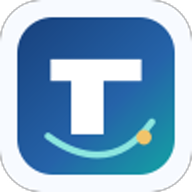
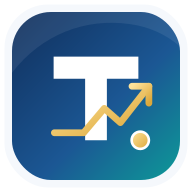
Add files via upload

diff --git a/excel-import.js b/excel-import.js
@@ -1,0 +1,295 @@
+/* Teyssir ERP — Excel historical data importer
+   Adds a guided import workflow without replacing existing ERP screens or workflows. */
+(function () {
+  "use strict";
+  const CATS = {
+    products: { label: "المنتجات والمخزون", collection: "products", fields: [
+      ["name","اسم المنتج","name,product,product name,المنتج,اسم المنتج,article,désignation"],
+      ["buyPrice","سعر الشراء","buyprice,buy price,cost,سعر الشراء,ثمن الشراء,prix achat"],
+      ["sellPrice","سعر البيع","sellprice,sell price,price,سعر البيع,ثمن البيع,prix vente"],
+      ["stock","الكمية الحالية","stock,quantity,qty,الكمية,الكمية الحالية,quantité,qte"],
+      ["expiryDate","تاريخ انتهاء الصلاحية (اختياري)","expirydate,expiry date,expiration,expiry,تاريخ انتهاء الصلاحية,تاريخ الانتهاء,date expiration"],
+      ["unit","وحدة القياس (اختياري)","unit,unité,الوحدة,وحدة القياس"],
+      ["category","التصنيف (اختياري)","category,catégorie,التصنيف,الصنف"]
+    ]},
+    customers: { label: "الزبناء", collection: "customers", fields: [
+      ["name","اسم الزبون","name,customer,client,الاسم,اسم الزبون,اسم العميل"],
+      ["phone","الهاتف","phone,tel,telephone,téléphone,الهاتف,رقم الهاتف"],
+      ["balance","الرصيد السابق (اختياري)","balance,solde,الرصيد,الرصيد السابق,المستحق"]
+    ]},
+    suppliers: { label: "الموردون", collection: "suppliers", fields: [
+      ["name","اسم المورد","name,supplier,fournisseur,اسم المورد,المورد"],
+      ["phone","الهاتف","phone,tel,telephone,téléphone,الهاتف,رقم الهاتف"],
+      ["balance","الرصيد السابق (اختياري)","balance,solde,الرصيد,الرصيد السابق,المستحق"]
+    ]},
+    banks: { label: "البنوك والحسابات", collection: "banks", fields: [
+      ["name","اسم البنك أو الحساب","name,bank,bank name,اسم البنك,اسم الحساب,البنك"],
+      ["accountNumber","رقم الحساب (اختياري)","accountnumber,account number,numero compte,رقم الحساب"],
+      ["balance","الرصيد الافتتاحي","balance,solde,الرصيد,الرصيد الافتتاحي"]
+    ]},
+    employees: { label: "الموظفون والرواتب الأساسية", collection: "salaries", fields: [
+      ["name","اسم الموظف","name,employee,employé,اسم الموظف,الاسم"],
+      ["phone","الهاتف (اختياري)","phone,tel,telephone,الهاتف,رقم الهاتف"],
+      ["baseSalary","الراتب الأساسي","basesalary,base salary,salary,salaire,الراتب الأساسي,الراتب"],
+      ["defaultMethod","طريقة الدفع: cash أو bank (اختياري)","defaultmethod,method,طريقة الدفع"]
+    ]},
+    expenses: { label: "المصروفات التاريخية", collection: "expenses", fields: [
+      ["date","تاريخ المصروف","date,createdat,date dépense,التاريخ,تاريخ المصروف"],
+      ["name","نوع أو اسم المصروف","name,category,catégorie,type,اسم المصروف,التصنيف,نوع المصروف"],
+      ["note","الوصف (اختياري)","note,description,الوصف,ملاحظات"],
+      ["amount","المبلغ","amount,amount mru,montant,valeur,المبلغ,القيمة"],
+      ["method","طريقة الدفع: cash أو bank (اختياري)","method,mode,طريقة الدفع"],
+      ["bankName","اسم البنك (اختياري)","bankname,bank,اسم البنك"]
+    ]},
+    revenues: { label: "الإيرادات التاريخية", collection: "transactions", fields: [
+      ["date","تاريخ الإيراد","date,createdat,date revenu,التاريخ,تاريخ الإيراد"],
+      ["name","مصدر أو اسم الإيراد","name,source,category,اسم الإيراد,المصدر,التصنيف"],
+      ["note","الوصف (اختياري)","note,description,الوصف,ملاحظات"],
+      ["amount","المبلغ","amount,montant,valeur,المبلغ,القيمة"],
+      ["method","طريقة القبض: cash أو bank (اختياري)","method,mode,طريقة القبض"],
+      ["bankName","اسم البنك (اختياري)","bankname,bank,اسم البنك"]
+    ]},
+    salaryPayments: { label: "سجل الرواتب المدفوعة سابقًا", collection: "transactions", fields: [
+      ["date","تاريخ دفع الراتب","date,createdat,paydate,date paiement,التاريخ,تاريخ الدفع"],
+      ["name","اسم الموظف","name,employee,employé,اسم الموظف,الاسم"],
+      ["amount","المبلغ المدفوع","amount,montant,paid,المبلغ,المبلغ المدفوع"],
+      ["note","ملاحظات (اختياري)","note,description,الوصف,ملاحظات"]
+    ]}
+  };
+  const norm = v => String(v == null ? "" : v).trim().toLowerCase().normalize("NFD").replace(/[\u0300-\u036f]/g,"").replace(/[\s_\-./]+/g,"");
+  const num = v => {
+    if (typeof v === "number") return Number.isFinite(v) ? v : NaN;
+    const s = String(v == null ? "" : v).replace(/[\s٬,]/g,"").replace(/[٫]/g,".");
+    if (!s) return 0;
+    return Number(s);
+  };
+  const dateValue = v => {
+    if (v == null || v === "") return "";
+    if (v instanceof Date && !isNaN(v)) return v.toISOString().slice(0,10);
+    if (typeof v === "number" && window.XLSX && XLSX.SSF) {
+      const d = XLSX.SSF.parse_date_code(v);
+      if (d) return `${d.y}-${String(d.m).padStart(2,"0")}-${String(d.d).padStart(2,"0")}`;
+    }
+    const s = String(v).trim();
+    if (/^\d{4}-\d{1,2}-\d{1,2}/.test(s)) return s.slice(0,10);
+    const m = s.match(/^(\d{1,2})[\/.-](\d{1,2})[\/.-](\d{2,4})$/);
+    if (m) {
+      let a=+m[1], b=+m[2], y=+m[3]; if(y<100)y+=2000;
+      // Common spreadsheet date convention: DD/MM/YYYY
+      return `${y}-${String(b).padStart(2,"0")}-${String(a).padStart(2,"0")}`;
+    }
+    const d = new Date(s);
+    return isNaN(d) ? "" : d.toISOString().slice(0,10);
+  };
+  function hash(str) { let h=2166136261; for(let i=0;i<str.length;i++){h^=str.charCodeAt(i);h=Math.imul(h,16777619);} return (h>>>0).toString(16).padStart(8,"0"); }
+  function safeId(cat, row) {
+    const identity = cat + "|" + (row.name||"") + "|" + (row.phone||"") + "|" + (row.accountNumber||"") + "|" + (row.date||"") + "|" + (row.amount||"") + "|" + (row.expiryDate||"");
+    return "excel_" + hash(identity.toLowerCase());
+  }
+  function esc(s) { return String(s == null ? "" : s).replace(/[&<>"']/g,c=>({"&":"&amp;","<":"&lt;",">":"&gt;",'"':"&quot;","'":"&#39;"}[c])); }
+
+  let rows = [], headers = [], selectedCat = "products", lastFile = "";
+  function injectStyle() {
+    if (document.getElementById("tei-import-style")) return;
+    const st=document.createElement("style"); st.id="tei-import-style";
+    st.textContent = `
+      #teiImportLauncher{position:fixed;left:18px;bottom:18px;z-index:9990;border:0;border-radius:14px;padding:12px 16px;background:linear-gradient(135deg,#173f7a,#127f91);color:#fff;font:700 14px Tajawal,sans-serif;box-shadow:0 8px 24px #173f7a40;cursor:pointer}
+      #teiImportLauncher i{margin-inline-end:7px}
+      #teiImportOverlay{position:fixed;inset:0;z-index:9999;background:#0b1738a8;display:none;align-items:center;justify-content:center;padding:14px;font-family:Tajawal,sans-serif}
+      #teiImportOverlay .tei-card{background:#fff;color:#1f2937;width:min(900px,100%);max-height:92vh;overflow:auto;border-radius:20px;box-shadow:0 25px 80px #07152e55}
+      #teiImportOverlay .tei-head{background:linear-gradient(120deg,#173f7a,#147f89);color:#fff;padding:18px 22px;display:flex;justify-content:space-between;align-items:center;gap:12px}
+      #teiImportOverlay .tei-head h2{margin:0;font-size:20px}
+      #teiImportOverlay .tei-body{padding:20px}
+      #teiImportOverlay .tei-grid{display:grid;grid-template-columns:repeat(2,minmax(0,1fr));gap:12px}
+      #teiImportOverlay .tei-field label{display:block;font-size:13px;font-weight:700;margin-bottom:6px}
+      #teiImportOverlay .tei-field select,#teiImportOverlay .tei-field input{width:100%;padding:11px;border:1px solid #d6deea;border-radius:10px;background:#fff;font:inherit}
+      #teiImportOverlay .tei-btn{border:0;border-radius:10px;padding:11px 16px;font:700 14px Tajawal,sans-serif;cursor:pointer}
+      #teiImportOverlay .tei-primary{background:#173f7a;color:white}
+      #teiImportOverlay .tei-secondary{background:#edf2f8;color:#173f7a}
+      #teiImportOverlay .tei-danger{background:#fff0f0;color:#a32323}
+      #teiImportOverlay .tei-actions{display:flex;gap:8px;flex-wrap:wrap;margin-top:16px}
+      #teiImportOverlay .tei-note{background:#f3f7fc;border:1px solid #dbe6f3;border-radius:12px;padding:12px;font-size:13px;line-height:1.7;margin:12px 0}
+      #teiImportOverlay .tei-tablewrap{overflow:auto;max-height:280px;border:1px solid #e5eaf1;border-radius:10px;margin-top:12px}
+      #teiImportOverlay table{border-collapse:collapse;width:100%;font-size:12px;white-space:nowrap}
+      #teiImportOverlay th,#teiImportOverlay td{padding:8px;border-bottom:1px solid #e8edf4;text-align:right}
+      #teiImportOverlay th{background:#f1f5f9;position:sticky;top:0}
+      #teiImportOverlay .tei-status{margin-top:12px;font-weight:700;white-space:pre-wrap;line-height:1.7}
+      #teiImportOverlay .tei-close{border:0;background:#ffffff20;color:white;border-radius:10px;padding:8px 12px;font-size:18px;cursor:pointer}
+      @media(max-width:600px){#teiImportOverlay .tei-grid{grid-template-columns:1fr}#teiImportLauncher{left:10px;bottom:10px;padding:10px 12px}}
+    `;
+    document.head.appendChild(st);
+  }
+  function addLauncher() {
+    if (document.getElementById("teiImportLauncher") || !window.app || !app.state || !app.state.cid) return;
+    const b=document.createElement("button"); b.id="teiImportLauncher"; b.innerHTML='<i class="fa-solid fa-file-excel"></i> استيراد بيانات Excel'; b.onclick=openModal;
+    document.body.appendChild(b);
+  }
+  function ensureModal() {
+    if(document.getElementById("teiImportOverlay")) return;
+    const el=document.createElement("div"); el.id="teiImportOverlay";
+    el.innerHTML=`<div class="tei-card" role="dialog" aria-modal="true" aria-label="استيراد Excel">
+      <div class="tei-head"><div><h2><i class="fa-solid fa-file-excel"></i> استيراد البيانات السابقة</h2><div style="font-size:12px;opacity:.9;margin-top:4px">Teyssir ERP · معاينة وتحقق قبل الحفظ</div></div><button class="tei-close" id="teiImportClose" aria-label="إغلاق">×</button></div>
+      <div class="tei-body">
+        <div class="tei-note">اختر نوع البيانات ثم ارفع ملف Excel بصيغة XLSX أو XLS أو CSV. راجع المعاينة والأخطاء قبل التنفيذ. لا تُنشأ عمليات قبض أو دفع نقدية تلقائيًا عند استيراد السجلات التاريخية، لتجنب تغيير الأرصدة دون قصد.</div>
+        <div class="tei-grid">
+          <div class="tei-field"><label for="teiCat">نوع البيانات</label><select id="teiCat"></select></div>
+          <div class="tei-field"><label for="teiFile">ملف Excel</label><input id="teiFile" type="file" accept=".xlsx,.xls,.csv"></div>
+        </div>
+        <div id="teiMapping"></div><div id="teiPreview"></div><div id="teiStatus" class="tei-status" aria-live="polite"></div>
+        <div class="tei-actions"><button class="tei-btn tei-secondary" id="teiTemplate">تنزيل قالب CSV</button><button class="tei-btn tei-secondary" id="teiValidate">فحص ومعاينة</button><button class="tei-btn tei-primary" id="teiImport" disabled>استيراد السجلات الصحيحة</button><button class="tei-btn tei-danger" id="teiReset">إعادة ضبط</button></div>
+      </div></div>`;
+    document.body.appendChild(el);
+    el.addEventListener("click",e=>{if(e.target===el) closeModal();});
+    document.getElementById("teiImportClose").onclick=closeModal;
+    document.getElementById("teiCat").innerHTML=Object.entries(CATS).map(([k,v])=>`<option value="${k}">${esc(v.label)}</option>`).join("");
+    document.getElementById("teiCat").onchange=()=>{selectedCat=document.getElementById("teiCat").value; renderMapping(); renderPreview();};
+    document.getElementById("teiFile").onchange=readFile;
+    document.getElementById("teiTemplate").onclick=downloadTemplate;
+    document.getElementById("teiValidate").onclick=validateAndPreview;
+    document.getElementById("teiImport").onclick=runImport;
+    document.getElementById("teiReset").onclick=()=>{rows=[];headers=[];lastFile="";document.getElementById("teiFile").value="";document.getElementById("teiStatus").textContent="";document.getElementById("teiImport").disabled=true;renderMapping();renderPreview();};
+  }
+  function openModal() {
+    if(!window.app || !app.state || !app.state.cid){alert("يرجى تسجيل الدخول إلى الشركة أولًا.");return;}
+    injectStyle();ensureModal();selectedCat=document.getElementById("teiCat").value||"products";
+    document.getElementById("teiImportOverlay").style.display="flex"; renderMapping(); renderPreview();
+  }
+  function closeModal(){const e=document.getElementById("teiImportOverlay");if(e)e.style.display="none";}
+  function downloadTemplate(){
+    const cat=document.getElementById("teiCat").value, c=CATS[cat];
+    const csv=c.fields.map(f=>`"${f[1].replace(/"/g,'""')}"`).join(",")+"\r\n";
+    const blob=new Blob(["\ufeff"+csv],{type:"text/csv;charset=utf-8;"});
+    const a=document.createElement("a");a.href=URL.createObjectURL(blob);a.download=`Teyssir-${cat}-template.csv`;a.click();setTimeout(()=>URL.revokeObjectURL(a.href),1000);
+  }
+  function readFile(e){
+    const file=e.target.files&&e.target.files[0]; if(!file)return;
+    if(!window.XLSX){setStatus("تعذر تحميل قارئ Excel. اتصل بالإنترنت ثم أعد المحاولة.");return;}
+    lastFile=file.name;
+    const reader=new FileReader();
+    reader.onload=ev=>{
+      try{
+        const wb=XLSX.read(ev.target.result,{type:"array",cellDates:true});
+        const ws=wb.Sheets[wb.SheetNames[0]];
+        const json=XLSX.utils.sheet_to_json(ws,{header:1,defval:"",raw:true});
+        if(!json.length)throw new Error("الملف فارغ.");
+        headers=json[0].map((h,i)=>String(h||`عمود ${i+1}`).trim());
+        rows=json.slice(1).filter(r=>r.some(v=>String(v??"").trim()!=="")).map((r,i)=>({_sourceRow:i+2, _raw:r}));
+        renderMapping();validateAndPreview();
+      }catch(err){rows=[];headers=[];setStatus("تعذر قراءة الملف: "+err.message);renderPreview();}
+    };
+    reader.readAsArrayBuffer(file);
+  }
+  function renderMapping(){
+    const c=CATS[document.getElementById("teiCat")?.value||selectedCat];
+    const box=document.getElementById("teiMapping");if(!box)return;
+    if(!headers.length){box.innerHTML="";return;}
+    box.innerHTML=`<div class="tei-note"><b>مطابقة الأعمدة:</b> حاول النظام مطابقة أسماء الأعمدة تلقائيًا. عدّل المطابقة إذا كانت عناوين ملفك مختلفة.</div><div class="tei-grid">${
+      c.fields.map(f=>{
+        const aliases=f[2].split(",").map(norm);let idx=headers.findIndex(h=>aliases.includes(norm(h)));
+        return `<div class="tei-field"><label>${esc(f[1])}</label><select data-map="${esc(f[0])}"><option value="-1">— غير محدد —</option>${headers.map((h,i)=>`<option value="${i}" ${i===idx?"selected":""}>${esc(h||`عمود ${i+1}`)}</option>`).join("")}</select></div>`;
+      }).join("")
+    }</div>`;
+    box.querySelectorAll("select[data-map]").forEach(x=>x.onchange=()=>validateAndPreview());
+  }
+  function mappedRows(){
+    const c=CATS[document.getElementById("teiCat")?.value||selectedCat];
+    const mapping={};
+    document.querySelectorAll("#teiMapping select[data-map]").forEach(x=>{if(+x.value>=0)mapping[x.dataset.map]=+x.value;});
+    return rows.map(r=>{
+      const o={_sourceRow:r._sourceRow};
+      Object.entries(mapping).forEach(([k,i])=>o[k]=r._raw[i]);
+      return o;
+    });
+  }
+  function validateRow(cat,r){
+    const errs=[];
+    if(cat==="products"){
+      if(!String(r.name||"").trim())errs.push("اسم المنتج مطلوب");
+      for(const k of ["buyPrice","sellPrice","stock"]) if(r[k]!==undefined && r[k]!=="" && (!Number.isFinite(num(r[k]))||num(r[k])<0))errs.push("قيمة غير صحيحة: "+k);
+      if(r.stock===undefined||r.stock==="")errs.push("الكمية الحالية مطلوبة");
+      if(r.expiryDate && !dateValue(r.expiryDate))errs.push("تاريخ الصلاحية غير صحيح");
+    } else if(["customers","suppliers"].includes(cat)){if(!String(r.name||"").trim())errs.push("الاسم مطلوب");}
+    else if(cat==="banks"){if(!String(r.name||"").trim())errs.push("اسم الحساب مطلوب");if(r.balance!==undefined&&r.balance!==""&&(!Number.isFinite(num(r.balance))||num(r.balance)<0))errs.push("الرصيد غير صحيح");}
+    else if(cat==="employees"){if(!String(r.name||"").trim())errs.push("اسم الموظف مطلوب");if(!Number.isFinite(num(r.baseSalary))||num(r.baseSalary)<=0)errs.push("الراتب الأساسي يجب أن يكون أكبر من صفر");}
+    else if(["expenses","revenues","salaryPayments"].includes(cat)){if(!String(r.name||"").trim())errs.push("الاسم مطلوب");if(!Number.isFinite(num(r.amount))||num(r.amount)<=0)errs.push("المبلغ يجب أن يكون أكبر من صفر");if(!dateValue(r.date))errs.push("التاريخ مطلوب أو غير صحيح");}
+    return errs;
+  }
+  let validRows=[];
+  function validateAndPreview(){
+    if(!headers.length){renderPreview();return;}
+    const cat=document.getElementById("teiCat").value;
+    const mapped=mappedRows();
+    validRows=mapped.map(r=>({...r,_errors:validateRow(cat,r)}));
+    renderPreview();
+    const ok=validRows.filter(r=>!r._errors.length).length, bad=validRows.length-ok;
+    setStatus(`الملف: ${lastFile||"—"}\nعدد الصفوف: ${validRows.length} | صالحة: ${ok} | تحتاج تصحيحًا: ${bad}`);
+    document.getElementById("teiImport").disabled=ok===0;
+  }
+  function renderPreview(){
+    const box=document.getElementById("teiPreview");if(!box)return;
+    if(!rows.length){box.innerHTML="";return;}
+    const list=validRows.length?validRows:mappedRows().map(r=>({...r,_errors:validateRow(document.getElementById("teiCat").value,r)}));
+    const cols=CATS[document.getElementById("teiCat").value].fields;
+    box.innerHTML=`<div style="font-weight:800;margin-top:14px">معاينة أول ${Math.min(list.length,12)} صفًا من ${list.length}</div><div class="tei-tablewrap"><table><thead><tr><th>صف Excel</th>${cols.map(c=>`<th>${esc(c[1])}</th>`).join("")}<th>التحقق</th></tr></thead><tbody>${list.slice(0,12).map(r=>`<tr><td>${r._sourceRow}</td>${cols.map(c=>`<td>${esc(c[0]==="expiryDate"&&r[c[0]]?dateValue(r[c[0]]):(r[c[0]]??"—"))}</td>`).join("")}<td style="color:${r._errors.length?"#b91c1c":"#047857"}">${esc(r._errors.join("؛ ")||"صالح")}</td></tr>`).join("")}</tbody></table></div>`;
+  }
+  function setStatus(t){const el=document.getElementById("teiStatus");if(el)el.textContent=t;}
+  function cleanRow(cat,r){
+    const n={companyId:app.state.cid,createdAt: r.date?new Date(dateValue(r.date)+"T12:00:00").toISOString():new Date().toISOString(), importedFromExcel:true};
+    if(cat==="products") Object.assign(n,{name:String(r.name).trim(),buyPrice:num(r.buyPrice),sellPrice:num(r.sellPrice),stock:num(r.stock),expiryDate:r.expiryDate?dateValue(r.expiryDate):null,sourceType:"opening",...(r.unit?{unit:String(r.unit).trim()}:{}),...(r.category?{category:String(r.category).trim()}:{})});
+    if(cat==="customers"||cat==="suppliers") Object.assign(n,{name:String(r.name).trim(),phone:String(r.phone||"").trim(),balance:r.balance!==undefined&&r.balance!==""?num(r.balance):0});
+    if(cat==="banks") Object.assign(n,{name:String(r.name).trim(),balance:r.balance!==undefined&&r.balance!==""?num(r.balance):0,accountNumber:String(r.accountNumber||"").trim()});
+    if(cat==="employees") Object.assign(n,{name:String(r.name).trim(),phone:String(r.phone||"").trim(),baseSalary:num(r.baseSalary),defaultMethod:["bank","cash"].includes(String(r.defaultMethod||"").toLowerCase())?String(r.defaultMethod).toLowerCase():"cash",payDate:null,lastPaidFor:null,lastPaidAt:null,totalPaid:0});
+    if(cat==="expenses") Object.assign(n,{val1:String(r.name).trim(),val2:String(r.note||"").trim(),val3:num(r.amount),method:["bank","cash"].includes(String(r.method||"").toLowerCase())?String(r.method).toLowerCase():"cash",bankId:null,importedHistorical:true});
+    if(cat==="revenues") Object.assign(n,{type:"revenue",amount:num(r.amount),cashAmount:0,bankAmount:0,method:["bank","cash"].includes(String(r.method||"").toLowerCase())?String(r.method).toLowerCase():"cash",note:`إيراد تاريخي: ${String(r.name).trim()}${r.note?" - "+String(r.note).trim():""}`,importedHistorical:true});
+    if(cat==="salaryPayments") Object.assign(n,{type:"salary_payment",amount:num(r.amount),cashAmount:0,bankAmount:0,method:"cash",note:`راتب تاريخي: ${String(r.name).trim()}${r.note?" - "+String(r.note).trim():""}`,importedHistorical:true});
+    return n;
+  }
+  async function runImport(){
+    const cat=document.getElementById("teiCat").value;
+    const good=validRows.filter(r=>!r._errors.length);
+    if(!good.length)return alert("لا توجد صفوف صالحة للاستيراد.");
+    if(!confirm(`سيتم استيراد ${good.length} سجلًا إلى قسم «${CATS[cat].label}». ستستخدم السجلات المستوردة سابقًا المعرّف نفسه لتقليل التكرار. هل تريد المتابعة؟`))return;
+    const btn=document.getElementById("teiImport");btn.disabled=true;
+    let created=0, skipped=0, failed=0; const errors=[];
+    try{
+      for(let start=0;start<good.length;start+=150){
+        const chunk=good.slice(start,start+150);const batch=db.batch(); let hasWrites=false;
+        for(const r of chunk){
+          const data=cleanRow(cat,r);
+          const id=safeId(cat,{...r,name:r.name||"",date:dateValue(r.date||r.createdAt),amount:r.amount||"",expiryDate:dateValue(r.expiryDate||"")});
+          const ref=db.collection(CATS[cat].collection).doc(id);
+          try{
+            // Deterministic IDs make re-import idempotent: the same source row updates its own imported record instead of creating duplicates.
+            batch.set(ref,data);created++;hasWrites=true;
+            if(cat==="products"){
+              const tr=db.collection("transactions").doc("excel_stock_"+id);
+              batch.set(tr,{companyId:app.state.cid,type:"opening_stock",refId:id,amount:0,note:`رصيد مخزون افتتاحي مستورد: ${data.name} (${data.stock})`,createdAt:data.createdAt,importedHistorical:true}); hasWrites=true;
+            }
+            if(cat==="banks" && num(r.balance)>0){
+              const tr=db.collection("transactions").doc("excel_open_"+id);
+              batch.set(tr,{companyId:app.state.cid,type:"opening_balance",bankId:id,amount:num(r.balance),bankAmount:num(r.balance),cashAmount:0,method:"bank",note:"رصيد افتتاحي مستورد من Excel",createdAt:data.createdAt,importedHistorical:true}); hasWrites=true;
+            }
+            if(cat==="expenses"){
+              const tr=db.collection("transactions").doc("excel_exp_"+id);
+              batch.set(tr,{companyId:app.state.cid,type:"expense",refId:id,amount:num(r.amount),cashAmount:0,bankAmount:0,method:data.method,note:data.val1,createdAt:data.createdAt,importedHistorical:true}); hasWrites=true;
+            }
+          }catch(e){failed++;errors.push(`صف ${r._sourceRow}: ${e.message}`);}
+        }
+        if(hasWrites) await batch.commit();
+      }
+      try{app.clearCache(CATS[cat].collection);app.clearCache("transactions");}catch(_){}
+      setStatus(`اكتمل الاستيراد.\nتمت معالجة/حفظ: ${created}\nتمت معالجة السجلات المتطابقة دون إنشاء معرفات جديدة\nأخطاء: ${failed}${errors.length?"\n"+errors.slice(0,8).join("\n"):""}\n\nراجع القسم المعني للتأكد من النتائج.`);
+      alert(`اكتمل الاستيراد.\nإضافة: ${created}\nتخطي: ${skipped}\nأخطاء: ${failed}`);
+      if(window.app && app.state && app.state.currentView) app.nav(app.state.currentView);
+    }catch(e){setStatus("تعذر إكمال الاستيراد: "+e.message);alert("تعذر إكمال الاستيراد: "+e.message);}
+    finally{btn.disabled=false;}
+  }
+  function start(){
+    injectStyle();
+    // SheetJS is used only to read user-selected workbooks; all writes go through the existing Firebase client.
+    if(!window.XLSX){const s=document.createElement("script");s.src="https://cdn.jsdelivr.net/npm/xlsx@0.18.5/dist/xlsx.full.min.js";s.async=true;document.head.appendChild(s);}
+    setInterval(addLauncher,1000);
+    window.addEventListener("online",()=>{const st=document.getElementById("teiStatus");if(st&&st.textContent.includes("غير متصل"))st.textContent+="\nعاد الاتصال بالإنترنت.";});
+  }
+  if(document.readyState==="loading")document.addEventListener("DOMContentLoaded",start);else start();
+})();

diff --git a/service-worker.js b/service-worker.js
@@ -14,7 +14,7 @@
      With relative URLs the precache works on any hosting path (root,
      subfolder, GitHub Pages, etc.) and the app loads fully offline.
 */
-const VERSION       = 'teyssir-v13-2026-09-22-fix4';
+const VERSION       = 'teyssir-v14-excel-import-brand';
 const SHELL_CACHE   = `shell-${VERSION}`;
 const RUNTIME_CACHE = `runtime-${VERSION}`;
 
@@ -29,6 +29,9 @@ const SHELL_FILES = [
   'style.css',
   'modern.css',
   'erp-enhancements.js',
+  'excel-import.js',
+  'brand-icon.svg',
+  'brand-logo.svg',
   'script.js',
   'manifest.json',
   'logo.png',

diff --git a/index.html b/index.html
@@ -5619,5 +5619,6 @@
     </script>
     <!-- END ADVANCED PROTECTION CODE -->
     
+    <script src="excel-import.js"></script>
 </body>
 </html>

diff --git a/README-Excel-Import-AR.md b/README-Excel-Import-AR.md
@@ -1,0 +1,27 @@
+# Teyssir ERP — تحديث استيراد Excel والشعار
+
+## ما الذي أُضيف؟
+- زر «استيراد بيانات Excel» يظهر بعد تسجيل الدخول إلى الشركة.
+- استيراد موجّه للمنتجات والمخزون، الزبناء، الموردين، البنوك، الموظفين والرواتب الأساسية، المصروفات التاريخية، الإيرادات التاريخية، وسجل الرواتب المدفوعة سابقًا.
+- قراءة ملفات XLSX وXLS وCSV عبر SheetJS.
+- مطابقة الأعمدة تلقائيًا مع إمكانية تعديل المطابقة.
+- معاينة أول الصفوف والتحقق من الحقول قبل الحفظ.
+- قوالب CSV قابلة للتنزيل لكل نوع.
+- حفظ المنتجات كرصيد مخزون افتتاحي مع تاريخ انتهاء الصلاحية عند توفره.
+- سجلّات العمليات التاريخية لا تغيّر الأرصدة النقدية/البنكية تلقائيًا؛ هذا مقصود لتجنب مضاعفة الأرصدة.
+- شعار جديد وأيقونات محدثة.
+- تحديث service worker لتخزين ملف الاستيراد محليًا.
+
+## النشر
+1. احتفظ بنسخة احتياطية من المشروع وقاعدة بيانات Firestore.
+2. اختبر المشروع أولًا على بيئة تجريبية أو شركة تجريبية.
+3. انشر محتويات مجلد `Teyssir-ERP--main` على Vercel بنفس إعداد النشر الحالي.
+4. افتح المنصة مع اتصال بالإنترنت مرة واحدة لتحميل مكتبة Excel؛ بعدها يمكن أن تكون المكتبة متاحة من ذاكرة التخزين المؤقت عند دعم المتصفح لذلك.
+5. سجّل الدخول إلى الشركة، افتح زر استيراد Excel، نزّل القالب المناسب، املأه ثم ارفع ملفك وراجع المعاينة قبل الاستيراد.
+
+## تنبيهات مهمة
+- لم يُنشأ ملف Windows EXE في هذا التحديث؛ هذا الأرشيف تحديث لمصدر المنصة.
+- مزامنة Firestore دون اتصال تعتمد على إعدادات Firebase والصلاحيات والاتصال، ويجب اختبارها عمليًا.
+- راجع قواعد أمان Firestore: مفتاح Firebase الظاهر في الواجهة ليس بديلًا عن قواعد وصول سليمة.
+- الاستيراد التاريخي لا ينشئ فواتير مبيعات أو مشتريات أصلية، ولا يحاول إعادة بناء كل الحركات المالية من الأرصدة وحدها.
+- يجب اختبار أسماء الحقول والتقارير الفعلية على نسخة تجريبية قبل استيراد بيانات إنتاج حقيقية.
